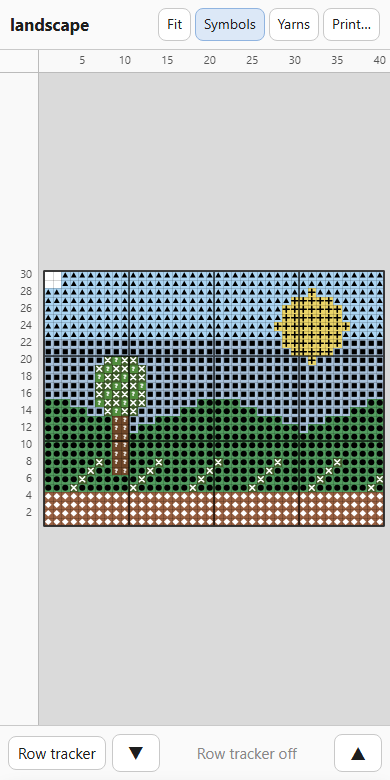
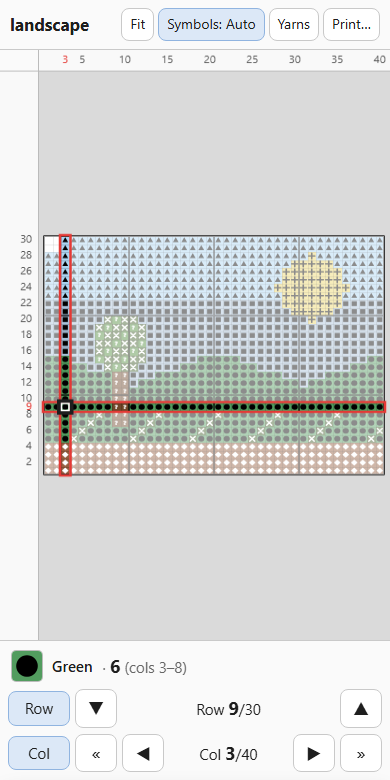
Pattern: column tracker, with a cell readout when both trackers are on
Column tracker (◀ ▶) next to the row tracker. With both on, a readout shows the
yarn in the cell where they cross and how many of it run to the right; ◀ ▶ wrap
to the next row up / back down at the row ends, « » jump a color run. Tapping
the grid doesn't move trackers. Phones get short "Row" / "Col" toggles and
"9/30" counters so both bars fit at 390 px.

Also fixes the tracker pan: it jumped whenever the tracked row/column was within
10 px of the edge (always true for row 1 / column 1 after Fit); now it only pans
when the cell is off screen. Phone screenshot retaken with both trackers on.

diff --git a/src/latchwork/pattern_template.html b/src/latchwork/pattern_template.html
@@ -53,11 +53,24 @@
     color: var(--muted); gap: 2px; padding: 4px; }
   #legend input[type=checkbox] { width: 22px; height: 22px; margin: 0; }
 
-  #rowbar { grid-area: rowbar; display: flex; align-items: center; justify-content: center; gap: 10px;
+  #rowbar { grid-area: rowbar; display: flex; flex-direction: column; gap: 6px;
     padding: 8px; background: var(--panel); border-top: 1px solid var(--line); }
+  #rowbar .line { display: flex; align-items: center; justify-content: center; gap: 10px; }
   #rowbar .label { min-width: 150px; text-align: center; }
   #rowbar .label b { font-size: 18px; }
   #rowbar button.big { min-width: 56px; font-size: 18px; padding: 6px 14px; }
+  #rowbar button.toggle { min-width: 132px; }
+  #rowbar .short { display: none; }
+  /* both trackers on: what's in the tracked cell, and how many of it run to the right */
+  #readout { display: none; align-items: center; justify-content: center; gap: 10px;
+    font-size: 15px; min-height: 34px; }
+  #readout.on { display: flex; }
+  #readout canvas { width: 30px; height: 30px; border-radius: 4px; flex: none;
+    box-shadow: 0 0 0 1px rgba(0,0,0,.25); }
+  #readout .name { font-weight: 600; overflow: hidden; text-overflow: ellipsis; white-space: nowrap;
+    min-width: 0; }
+  #readout .run { white-space: nowrap; color: var(--muted); }
+  #readout .run b { color: var(--ink); font-size: 18px; }
 
   #printDlg { position: fixed; inset: 0; background: rgba(0,0,0,.35); display: none;
     align-items: center; justify-content: center; z-index: 10; }
@@ -85,10 +98,14 @@
     #bar .actions { flex: none; flex-wrap: nowrap; gap: 4px; }
     #bar button { padding: 6px 8px; font-size: 14px; }
     #legendInfo { display: block; }
-    #rowbar { gap: 6px; }
-    #rowbar .label { min-width: 0; flex: 1; }
+    #rowbar .line { gap: 5px; }
+    #rowbar .label { min-width: 0; flex: 1; white-space: nowrap; }
     #rowbar button { padding: 6px 9px; }
-    #rowbar button.big { min-width: 48px; padding: 6px 10px; }
+    #rowbar button.big { min-width: 42px; padding: 6px 8px; }
+    #rowbar button.toggle { min-width: 62px; }
+    #rowbar .long { display: none; }
+    #rowbar .short { display: inline; }
+    #readout { justify-content: flex-start; padding: 0 4px; }
   }
   @media (min-width: 821px) { #legendBtn { display: none; } #closeLegend { display: none; } }
   #legendInfo { display: none; padding: 8px 12px; color: var(--muted); font-size: 12.5px;
@@ -141,10 +158,22 @@
 </aside>
 
 <div id="rowbar">
-  <button id="rowTrack" aria-pressed="false" title="Highlight one row at a time">Row tracker</button>
-  <button id="rowDown" class="big" aria-label="Row down">▼</button>
-  <span class="label" id="rowLabel"></span>
-  <button id="rowUp" class="big" aria-label="Row up">▲</button>
+  <div id="readout"><canvas id="readSw" width="60" height="60"></canvas>
+    <span class="name" id="readName"></span><span class="run" id="readRun"></span></div>
+  <div class="line">
+    <button id="rowTrack" class="toggle" aria-pressed="false" title="Highlight one row at a time"><span class="long">Row tracker</span><span class="short">Row</span></button>
+    <button id="rowDown" class="big" aria-label="Row down">▼</button>
+    <span class="label" id="rowLabel"></span>
+    <button id="rowUp" class="big" aria-label="Row up">▲</button>
+  </div>
+  <div class="line">
+    <button id="colTrack" class="toggle" aria-pressed="false" title="Highlight one column at a time; with the row tracker, read one cell"><span class="long">Column tracker</span><span class="short">Col</span></button>
+    <button id="runBack" class="big" aria-label="Start of this or the previous color run" title="Previous color run">«</button>
+    <button id="colLeft" class="big" aria-label="Column left">◀</button>
+    <span class="label" id="colLabel"></span>
+    <button id="colRight" class="big" aria-label="Column right">▶</button>
+    <button id="runNext" class="big" aria-label="Next color run" title="Next color run">»</button>
+  </div>
 </div>
 
 <div id="printDlg" role="dialog" aria-modal="true">
@@ -181,7 +210,7 @@ const fmt = n => n.toLocaleString("en-US");
 
 // ---------- saved state (per pattern, on this device) ----------
 const STORE = "latchwork:" + D.key;
-const state = { done: [], rowOn: false, row: 1, sym: "auto" };
+const state = { done: [], rowOn: false, row: 1, colOn: false, col: 1, sym: "auto" };
 try { Object.assign(state, JSON.parse(localStorage.getItem(STORE) || "{}")); } catch (e) {}
 // older patterns saved sym as true/false
 if (state.sym === true) state.sym = "auto";
@@ -349,14 +378,22 @@ function paint() {
   g.fillStyle = "#DADADA"; g.fillRect(0, 0, vw, vh);
   drawGrid(g, { x0: 0, y0: 0, w: W, h: H, s: scale, ox, oy, highlight: sel, sym: state.sym,
                 bmp: bitmap, clip: [vw, vh] });
-  // row tracker: dim everything but the current row
-  if (state.rowOn) {
-    const ry = oy + (H - state.row) * scale;
+  // trackers: dim everything but the tracked row and/or column
+  if (state.rowOn || state.colOn) {
+    const ry = oy + (H - state.row) * scale, cx = ox + (state.col - 1) * scale;
+    const xs = state.colOn ? [[ox, cx], [cx + scale, ox + W * scale]] : [[ox, ox + W * scale]];
+    const ys = state.rowOn ? [[oy, ry], [ry + scale, oy + H * scale]] : [[oy, oy + H * scale]];
     g.fillStyle = "rgba(255,255,255,.55)";
-    g.fillRect(ox, oy, W * scale, Math.max(0, ry - oy));
-    g.fillRect(ox, ry + scale, W * scale, Math.max(0, oy + H * scale - ry - scale));
+    for (const [x0, x1] of xs) for (const [y0, y1] of ys)
+      if (x1 > x0 && y1 > y0) g.fillRect(x0, y0, x1 - x0, y1 - y0);
     g.strokeStyle = getComputedStyle(document.documentElement).getPropertyValue("--row") || "#E53935";
-    g.lineWidth = 2.5; g.strokeRect(ox - 1, ry - 1, W * scale + 2, scale + 2);
+    g.lineWidth = 2.5;
+    if (state.rowOn) g.strokeRect(ox - 1, ry - 1, W * scale + 2, scale + 2);
+    if (state.colOn) g.strokeRect(cx - 1, oy - 1, scale + 2, H * scale + 2);
+    if (state.rowOn && state.colOn) {   // the cell being read: dark frame with a white edge
+      g.lineWidth = 4; g.strokeStyle = "#1E1E1E"; g.strokeRect(cx - 2, ry - 2, scale + 4, scale + 4);
+      g.lineWidth = 1.5; g.strokeStyle = "#fff"; g.strokeRect(cx + .5, ry + .5, scale - 1, scale - 1);
+    }
   }
   // gutters with numbers
   g.fillStyle = "rgba(250,250,250,.96)";
@@ -366,7 +403,12 @@ function paint() {
   const cs = labelStep(scale, 26);
   for (let c = cs; c <= W; c += cs) {
     const x = ox + (c - .5) * scale;
-    if (x > GL - 4 && x < vw) g.fillText(String(c), x, GT / 2);
+    if (x > GL - 4 && x < vw && !(state.colOn && c === state.col)) g.fillText(String(c), x, GT / 2);
+  }
+  if (state.colOn) {   // always label the tracked column
+    const x = ox + (state.col - .5) * scale;
+    if (x > GL && x < vw) { g.fillStyle = "#E53935"; g.fillText(String(state.col), x, GT / 2); }
+    g.fillStyle = "#555";
   }
   g.textAlign = "right";
   const rs = labelStep(scale, 15);
@@ -530,26 +572,90 @@ const legendEl = document.getElementById("legend");
 document.getElementById("legendBtn").onclick = () => legendEl.classList.toggle("open");
 document.getElementById("closeLegend").onclick = () => legendEl.classList.remove("open");
 
-const rowBtn = document.getElementById("rowTrack");
-function syncRow() {
+const rowBtn = document.getElementById("rowTrack"), colBtn = document.getElementById("colTrack");
+const $ = id => document.getElementById(id);
+const cellAt = (row, col) => cells[(H - row) * W + col - 1];   // row 1 = bottom, col 1 = left
+function runAt(row, col) {   // [first, last] column of the same-yarn run containing col
+  const v = cellAt(row, col);
+  let a = col, b = col;
+  while (a > 1 && cellAt(row, a - 1) === v) a--;
+  while (b < W && cellAt(row, b + 1) === v) b++;
+  return [a, b];
+}
+function counter(name, n, of) {   // "Row 37 of 80" (phones: "Row 37/80")
+  return name + " <b>" + n + "</b><span class='long'> of " + of + "</span><span class='short'>/" + of + "</span>";
+}
+function syncTrack() {
   state.row = Math.max(1, Math.min(H, state.row));
+  state.col = Math.max(1, Math.min(W, state.col));
   rowBtn.setAttribute("aria-pressed", state.rowOn ? "true" : "false");
-  document.getElementById("rowLabel").innerHTML = state.rowOn
-    ? "Row <b>" + state.row + "</b> of " + H : "<span style='color:#888'>Row tracker off</span>";
-  document.getElementById("rowUp").disabled = document.getElementById("rowDown").disabled = !state.rowOn;
+  colBtn.setAttribute("aria-pressed", state.colOn ? "true" : "false");
+  $("rowLabel").innerHTML = state.rowOn ? counter("Row", state.row, H) : "<span style='color:#888'>off</span>";
+  $("colLabel").innerHTML = state.colOn ? counter("Col", state.col, W) : "<span style='color:#888'>off</span>";
+  $("rowUp").disabled = $("rowDown").disabled = !state.rowOn;
+  $("colLeft").disabled = $("colRight").disabled = !state.colOn;
+  const both = state.rowOn && state.colOn;
+  $("runBack").disabled = $("runNext").disabled = !both;   // runs need a row and a column
+  $("readout").classList.toggle("on", both);
+  if (both) {
+    const v = cellAt(state.row, state.col), [, last] = runAt(state.row, state.col);
+    const n = last - state.col + 1, sw = $("readSw"), g = sw.getContext("2d");
+    g.clearRect(0, 0, 60, 60);
+    g.fillStyle = v === NONE ? EMPTY : Y[v].hex; g.fillRect(0, 0, 60, 60);
+    if (v !== NONE) drawSymbol(g, v, 30, 30, 60, Y[v].ink);
+    $("readName").textContent = v === NONE ? "Empty (no knot)" : Y[v].name;
+    $("readRun").innerHTML = "· <b>" + n + "</b>" + (n > 1 ? " (cols " + state.col + "–" + last + ")" : "");
+  }
 }
-function showRow() {   // pan so the tracked row is on screen
-  const ry = oy + (H - state.row) * scale;
-  if (ry < GT + 10 || ry + scale > vh - 10) oy += (vh + GT) / 2 - (ry + scale / 2);
+function showCell() {   // pan only when the tracked row / column is (partly) off screen
+  if (state.rowOn) {
+    const ry = oy + (H - state.row) * scale;
+    if (ry < GT || ry + scale > vh) oy += (vh + GT) / 2 - (ry + scale / 2);
+  }
+  if (state.colOn) {
+    const cx = ox + (state.col - 1) * scale;
+    if (cx < GL || cx + scale > vw) ox += (vw + GL) / 2 - (cx + scale / 2);
+  }
 }
-rowBtn.onclick = () => { state.rowOn = !state.rowOn; syncRow(); save(); if (state.rowOn) showRow(); draw(); };
-function moveRow(d) { if (!state.rowOn) return; state.row += d; syncRow(); save(); showRow(); draw(); }
-document.getElementById("rowUp").onclick = () => moveRow(1);
-document.getElementById("rowDown").onclick = () => moveRow(-1);
+function changed() { syncTrack(); save(); showCell(); draw(); }
+rowBtn.onclick = () => { state.rowOn = !state.rowOn; changed(); };
+colBtn.onclick = () => { state.colOn = !state.colOn; changed(); };
+function moveRow(d) { if (!state.rowOn) return; state.row += d; changed(); }
+// Columns: with the row tracker on, stepping past either end wraps to the next row up
+// (or back down), since rows are hooked bottom to top, left to right.
+function moveCol(d) {
+  if (!state.colOn) return;
+  let c = state.col + d;
+  if (state.rowOn && c > W && state.row < H) { state.row++; c = 1; }
+  else if (state.rowOn && c < 1 && state.row > 1) { state.row--; c = W; }
+  state.col = c; changed();
+}
+function jumpRun(d) {   // » start of the next run; « start of this run, or of the one before
+  if (!(state.rowOn && state.colOn)) return;
+  const [first, last] = runAt(state.row, state.col);
+  if (d > 0) {
+    if (last < W) state.col = last + 1;
+    else if (state.row < H) { state.row++; state.col = 1; }
+  } else if (state.col > first) state.col = first;
+  else if (first > 1) state.col = runAt(state.row, first - 1)[0];
+  else if (state.row > 1) { state.row--; state.col = runAt(state.row, W)[0]; }
+  changed();
+}
+$("rowUp").onclick = () => moveRow(1);
+$("rowDown").onclick = () => moveRow(-1);
+$("colLeft").onclick = () => moveCol(-1);
+$("colRight").onclick = () => moveCol(1);
+$("runBack").onclick = () => jumpRun(-1);
+$("runNext").onclick = () => jumpRun(1);
 document.addEventListener("keydown", e => {
-  if (e.key === "ArrowUp") { moveRow(1); e.preventDefault(); }
-  else if (e.key === "ArrowDown") { moveRow(-1); e.preventDefault(); }
-  else if (e.key === "Escape") { highlight(-1); closePrint(); }
+  const k = e.key;
+  if (k === "ArrowUp") moveRow(1);
+  else if (k === "ArrowDown") moveRow(-1);
+  else if (k === "ArrowLeft") e.shiftKey ? jumpRun(-1) : moveCol(-1);
+  else if (k === "ArrowRight") e.shiftKey ? jumpRun(1) : moveCol(1);
+  else if (k === "Escape") { highlight(-1); closePrint(); return; }
+  else return;
+  e.preventDefault();
 });
 
 // ---------- print ----------
@@ -662,7 +768,7 @@ document.getElementById("pGo").onclick = doPrint;
 window.addEventListener("afterprint", () => { document.getElementById("printArea").innerHTML = ""; });
 
 // ---------- start ----------
-syncSym(); syncRow(); buildLegend();
+syncSym(); syncTrack(); buildLegend();
 window.addEventListener("resize", () => { resize(); });
 resize(); fit();
 document.documentElement.setAttribute("data-ready", "1");

diff --git a/src/latchwork/help.py b/src/latchwork/help.py
@@ -143,9 +143,11 @@ File → Export pattern (Ctrl+E) writes one self-contained HTML file. Copy it to
 
 - Pinch to zoom; the grid stays sharp. Rows are numbered from the bottom (row 1 = bottom).
 - Symbols button cycles Auto / Always / Off. Auto shows symbols once cells are big enough (about 7 px; zoom in if they're hidden). Always draws them even when tiny. Off hides them.
-- Remembered on that device, per pattern: done checkmarks, the row tracker (on/off and which row) and the Symbols mode. Zoom and the tapped yarn are not.
 - Tap a yarn in the legend to show only that color.
-- Done checkmarks and the row tracker are remembered on that device, per pattern.
+- Row tracker (▼ ▲) highlights one row; Column tracker (◀ ▶) one column. With both on, the bar above them reads the cell where they cross: its yarn and symbol, and how many of it run to the right ("6 (cols 3–8)").
+- With both on, ◀ ▶ step one cell and wrap to the next row up (or back down) at the ends, since you hook bottom to top, left to right. « » jump a whole color run instead. Tapping the grid never moves the trackers, so a stray touch can't lose your place.
+- Keyboard (computer): ↑ ↓ rows, ← → columns, Shift+← → color runs.
+- Remembered on that device, per pattern: done checkmarks, both trackers (on/off and position) and the Symbols mode. Zoom and the tapped yarn are not.
 - Printing: an overview plus pages of 50 × 70 holes, labelled A1 (bottom-left), A2…
 
 Re-export after changing assignments; the old file on the phone doesn't update itself.

diff --git a/docs/DESIGN.md b/docs/DESIGN.md
@@ -190,9 +190,14 @@ JSON, one cell per knot, safely escaped.
   (hidden below 7 px cells, where they become an unreadable texture, with a "Zoom in" hint),
   **Always** (drawn down to 3 px) and **Off**.
 - Legend with swatch, name, symbol and count; tapping a yarn shows only that color.
-- Done checkmarks per yarn and a row tracker. Stored per pattern in the browser's local
-  storage on that device: done marks, row tracker on/off and its row, Symbols mode. Zoom and
-  the tapped legend yarn are not stored.
+- Done checkmarks per yarn, a row tracker and a column tracker. With both trackers on, a
+  readout names the yarn in the cell where they cross and how many cells of it run to the
+  right; ◀ ▶ step a cell and wrap to the next row up / back down at the row ends (hooking goes
+  bottom to top, left to right), « » jump a color run. Tapping the grid deliberately doesn't
+  move the trackers (a stray touch mustn't lose your place). The view pans only when the
+  tracked row / column is off screen.
+- Stored per pattern in the browser's local storage on that device: done marks, both trackers
+  (on/off and position), Symbols mode. Zoom and the tapped legend yarn are not stored.
 - Unassigned colors appear in their original color with a `?` symbol (export warns first).
 - Print: an overview plus pages of 50 × 70 holes on letter paper, labelled A1 (bottom-left), A2…
 

diff --git a/README.md b/README.md
@@ -14,8 +14,8 @@ and export a pattern you can read on your phone while hooking.
 - **Plans the rug.** Packs (for pre-cut yarn) or pieces to cut per yarn, finished size, and
   how much canvas to cut including the folded borders.
 - **Exports a pattern.** One self-contained HTML file: pinch-zoom grid with symbols, a legend,
-  done checkmarks per yarn and a row tracker. Works offline on a phone, and prints on letter
-  paper split into labelled pages.
+  done checkmarks per yarn, and row and column trackers that read out the yarn at your spot.
+  Works offline on a phone, and prints on letter paper split into labelled pages.
 - **Manages your yarn palette.** Add, edit, retire and import yarns (CSV or GIMP `.gpl`), with
   brands and pack sizes. Keep several palettes and switch between them instantly.
 - **Comes with a ready-made palette** of 198 yarns from Hershner's, Red Heart and Loops &
